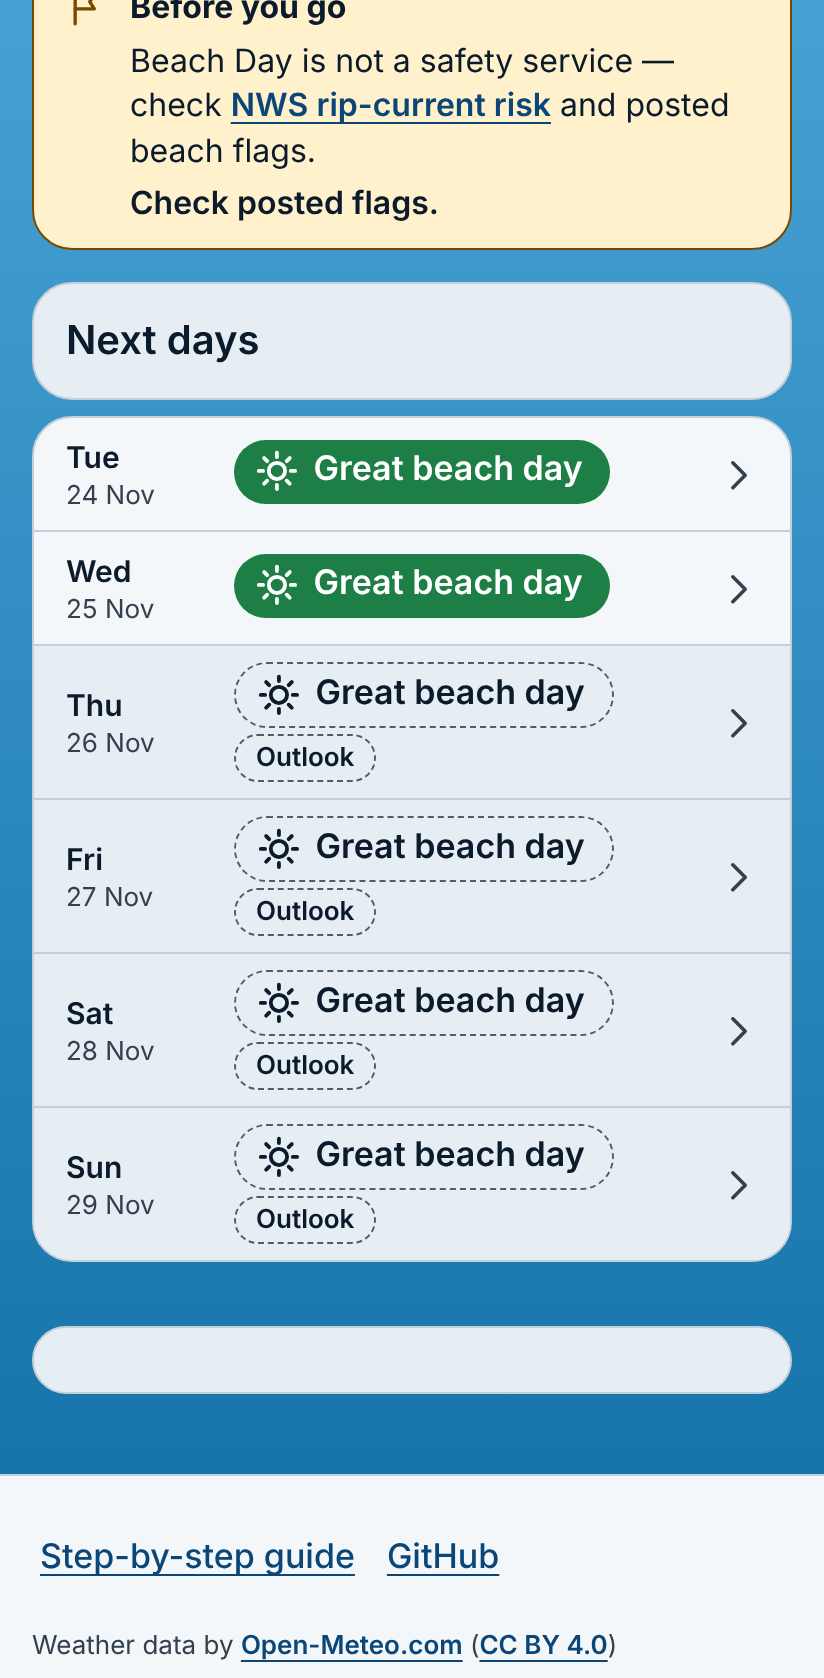
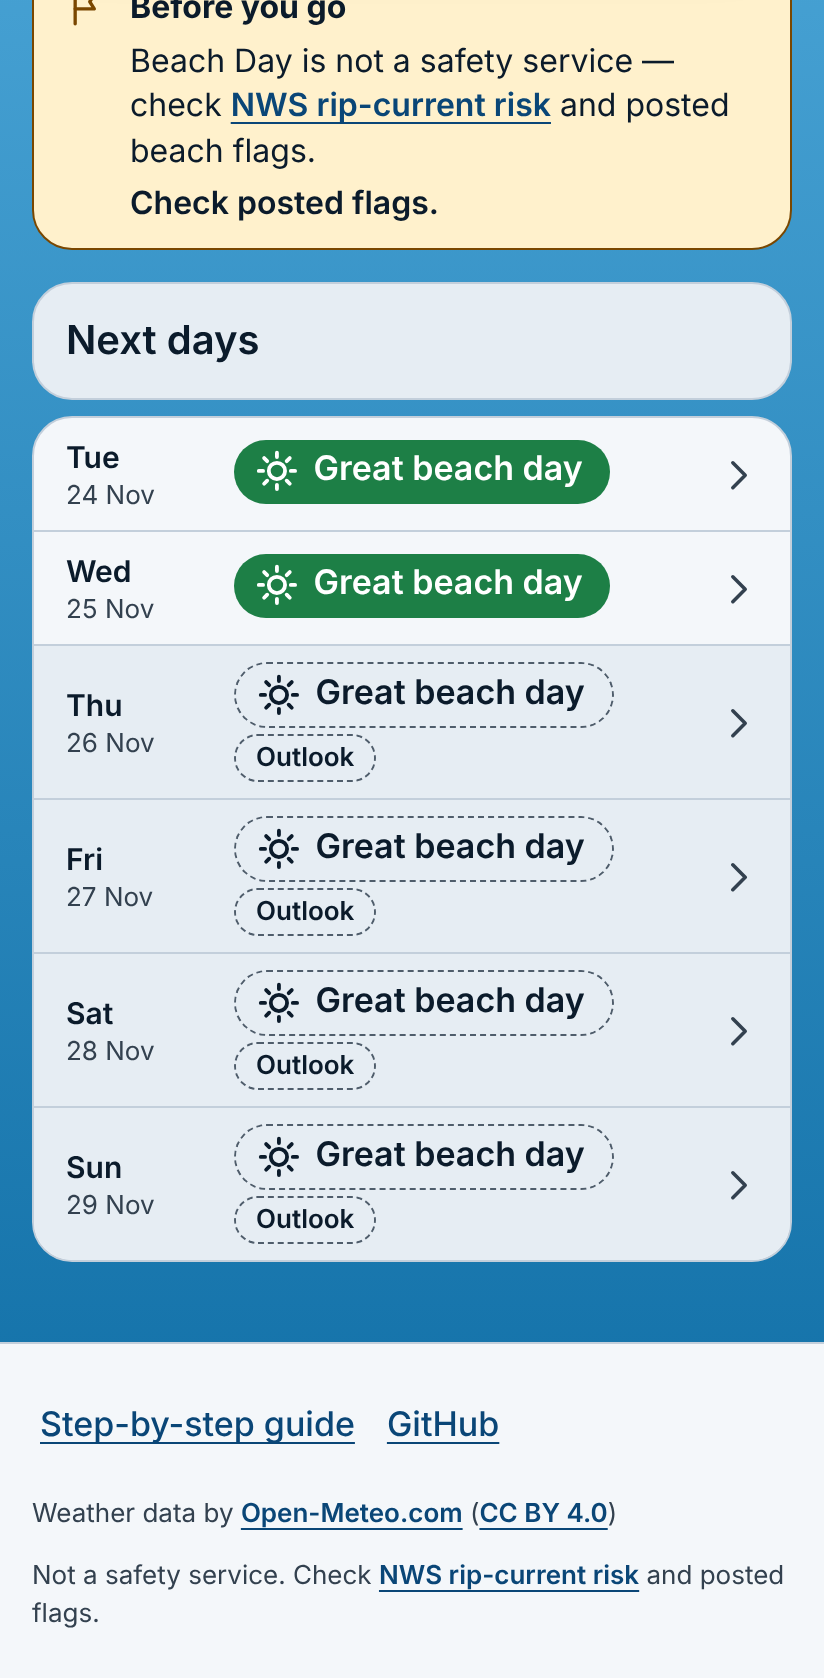
WIP(build W2F2): global hidden rule, fix round in progress
Claude-Session: https://claude.ai/code/session_01Mm1D5ecMT8KNTgvK3AzNqp

Changed region(s): [[0.0, 0.7747, 1.0, 0.9917]]

diff --git a/public/css/console.css b/public/css/console.css
@@ -127,7 +127,3 @@
 .diff__line { white-space: pre-wrap; overflow-wrap: anywhere; min-inline-size: 0; }
 /* Hidden or bidi Unicode shown as a visible chip, e.g. <span class="diff__hidden">⟨U+202E⟩</span>. --text on --banner-warn-bg passes 4.5:1 in both schemes. */
 .diff__hidden { display: inline-block; padding: 0 0.35em; margin-inline: 0.15em; border: 1.5px solid var(--banner-warn-icon); border-radius: var(--radius-xs); background: var(--banner-warn-bg); color: var(--text); font-family: var(--font-mono); font-size: 0.85em; font-weight: 700; white-space: nowrap; }
-
-/* Remy-B W2F2: the Console hosts carry .console (display: grid), which overrides the [hidden] attribute.
-   Hidden must win, or S7 shows the app host's h1 next to "Sign in to Agents". */
-.console[hidden] { display: none; }
